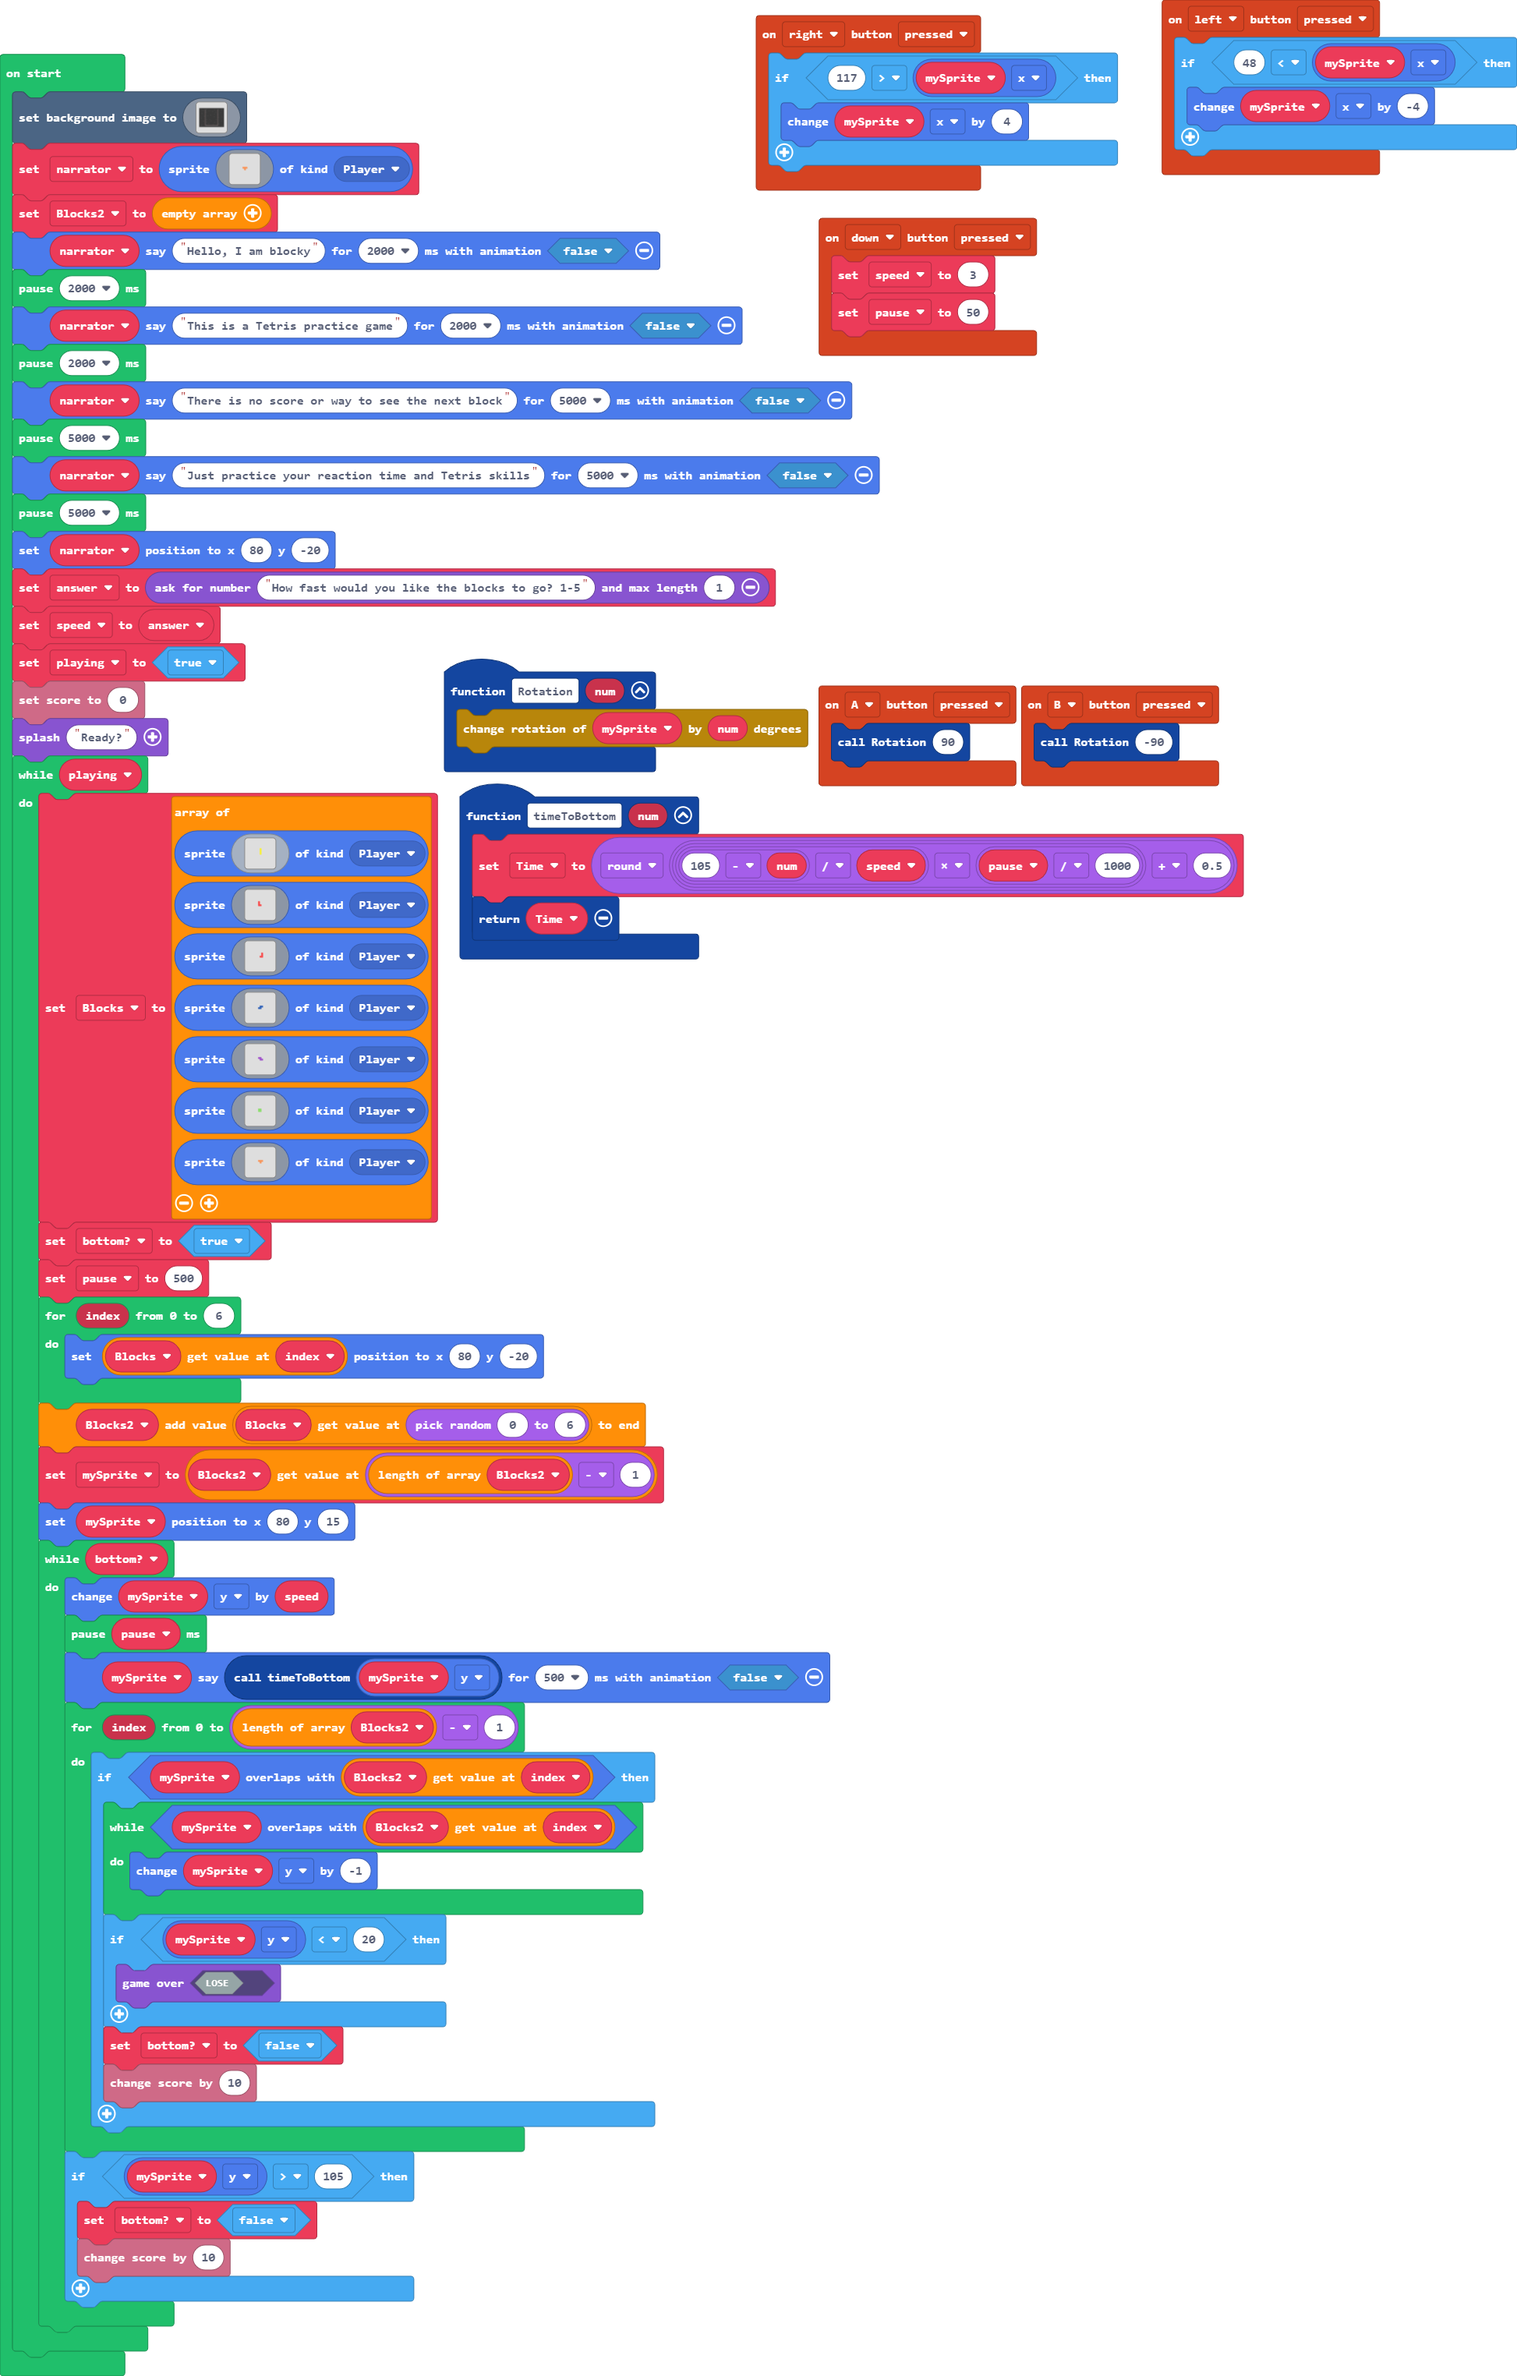
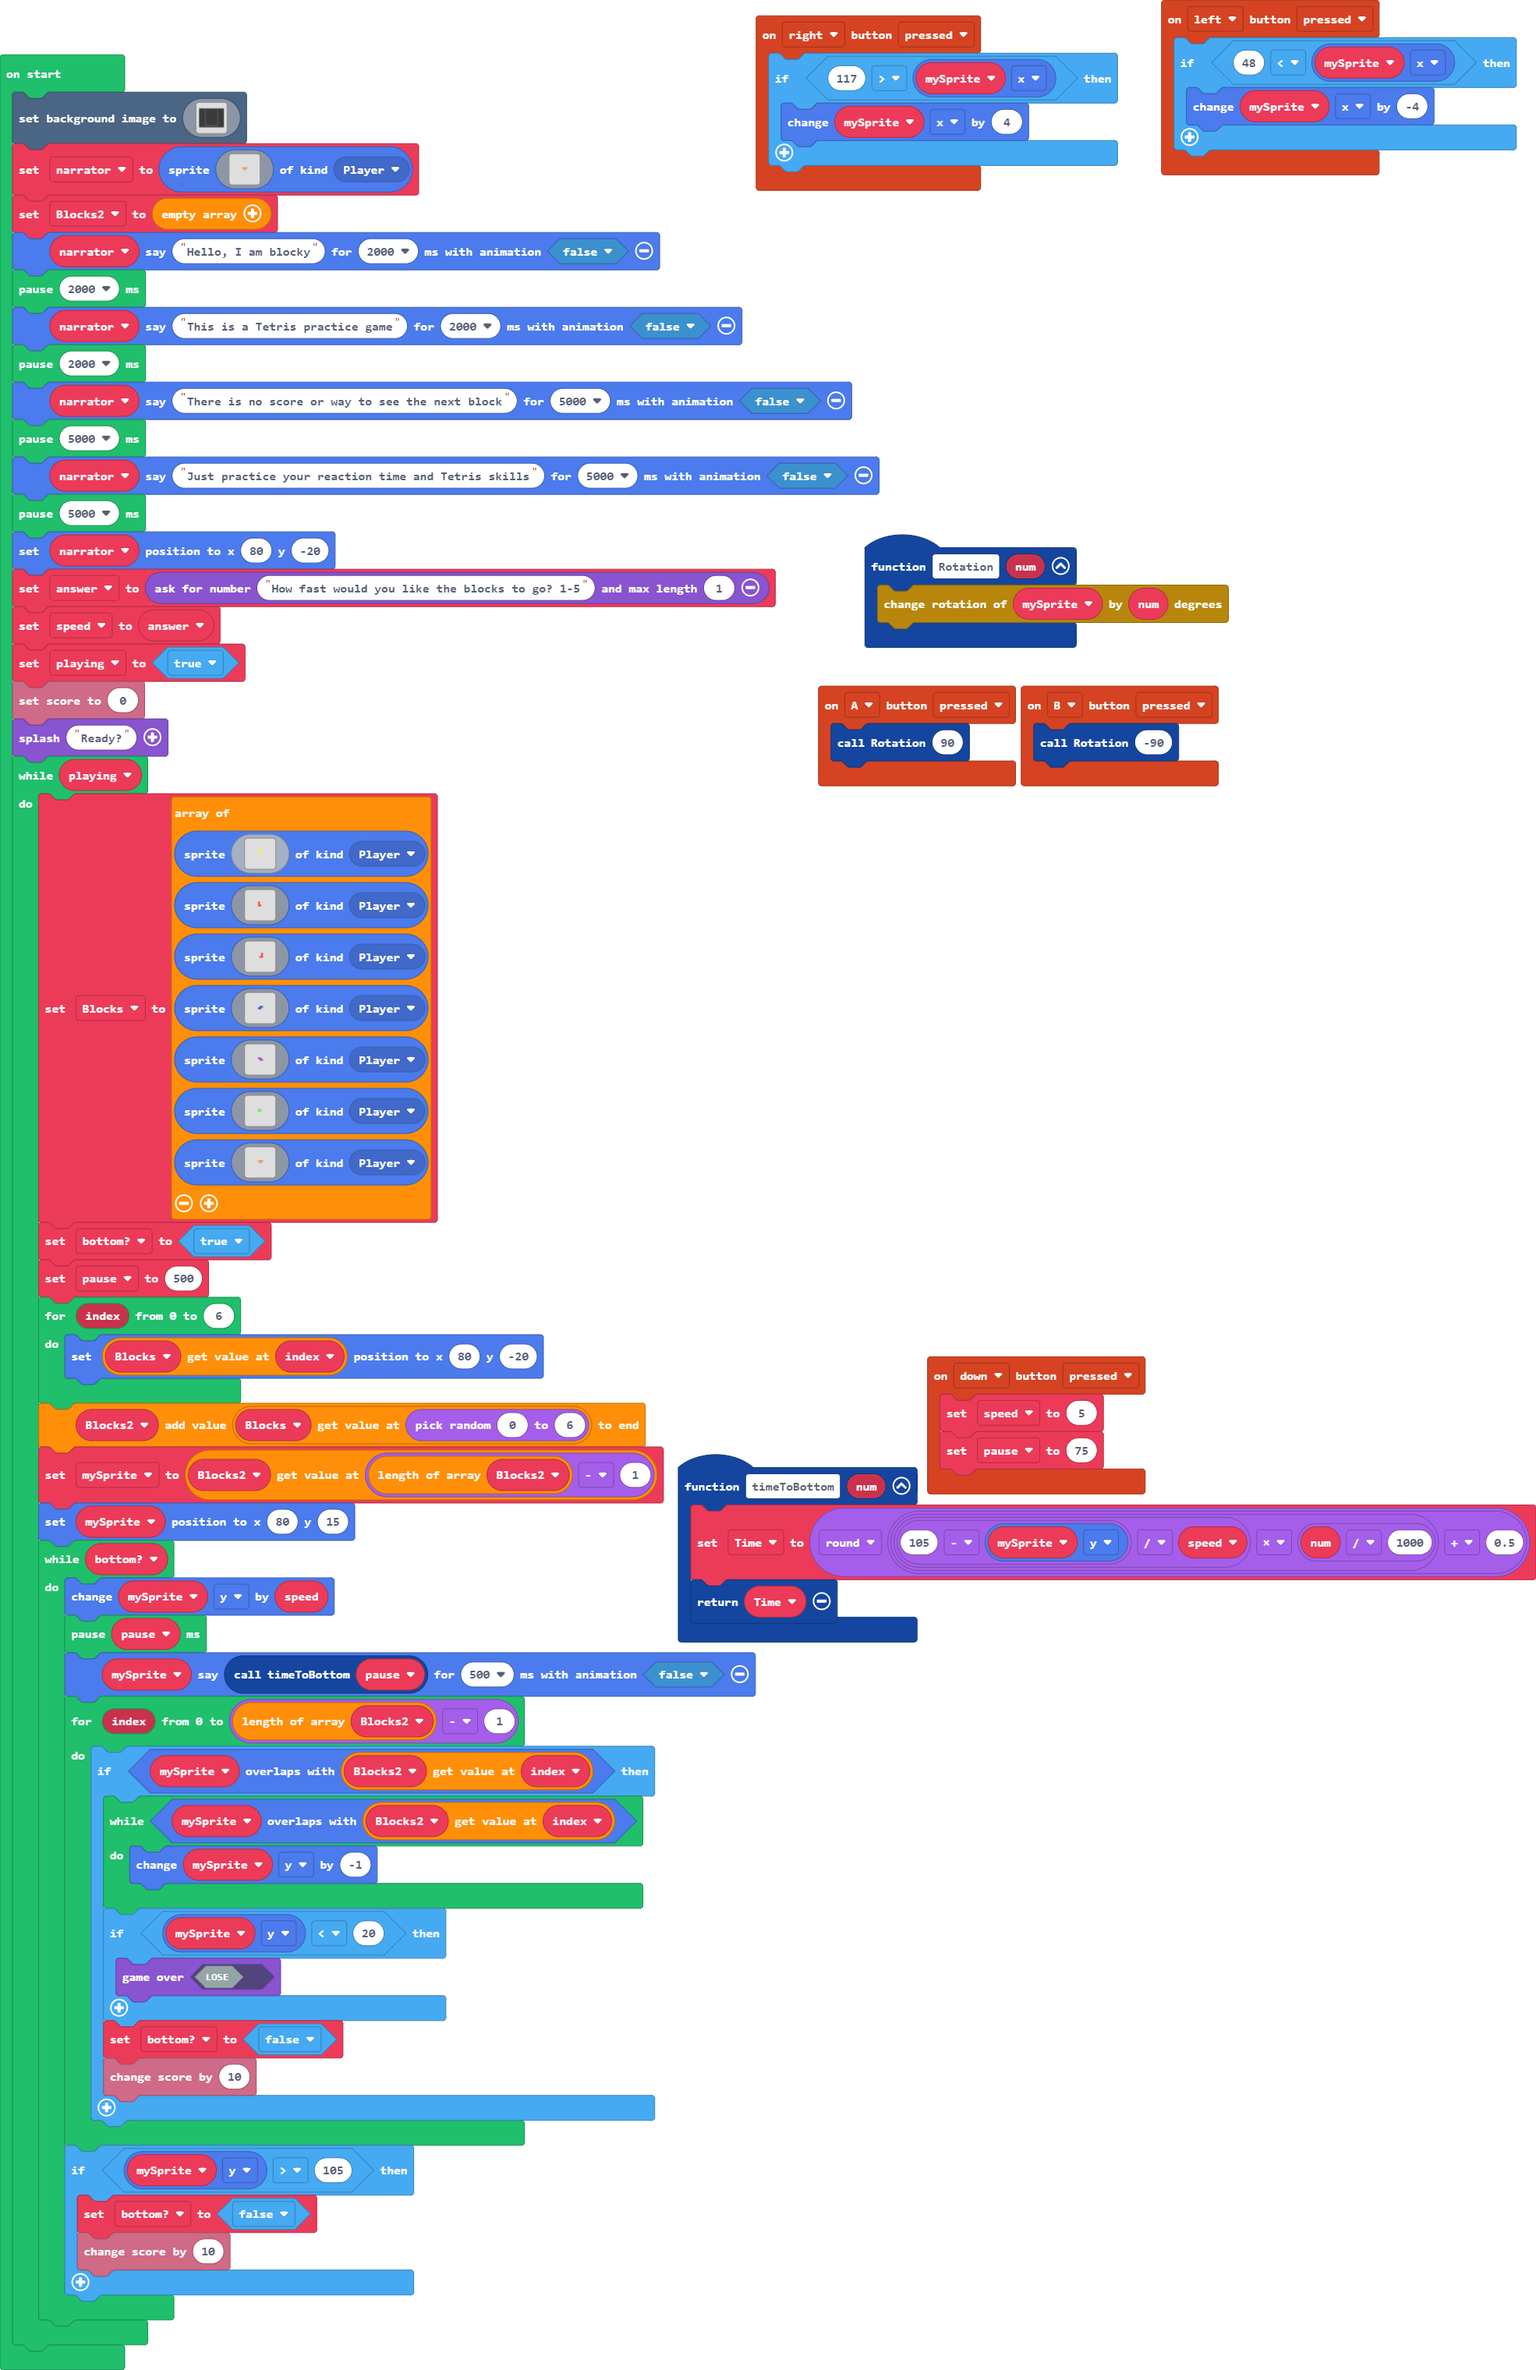
Update pxt.json, main.blocks, main.ts

Changed region(s): [[0.0, 0.0, 1.0, 0.9688], [0.4008, 0.875, 0.4317, 0.9062], [0.3392, 0.875, 0.37, 0.9062]]

diff --git a/main.ts b/main.ts
@@ -10,7 +10,7 @@ controller.left.onEvent(ControllerButtonEvent.Pressed, function () {
     }
 })
 function timeToBottom (num: number) {
-    Time = Math.round((105 - num) / speed * (pause2 / 1000) + 0.5)
+    Time = Math.round((105 - mySprite.y) / speed * (num / 1000) + 0.5)
     return Time
 }
 controller.right.onEvent(ControllerButtonEvent.Pressed, function () {
@@ -19,8 +19,8 @@ controller.right.onEvent(ControllerButtonEvent.Pressed, function () {
     }
 })
 controller.down.onEvent(ControllerButtonEvent.Pressed, function () {
-    speed = 3
-    pause2 = 50
+    speed = 5
+    pause2 = 75
 })
 function Rotation (num: number) {
     transformSprites.changeRotation(mySprite, num)
@@ -582,7 +582,7 @@ while (playing) {
     while (bottom) {
         mySprite.y += speed
         pause(pause2)
-        mySprite.sayText(timeToBottom(mySprite.y), 500, false)
+        mySprite.sayText(timeToBottom(pause2), 500, false)
         for (let index = 0; index <= Blocks2.length - 1; index++) {
             if (mySprite.overlapsWith(Blocks2[index])) {
                 while (mySprite.overlapsWith(Blocks2[index])) {
